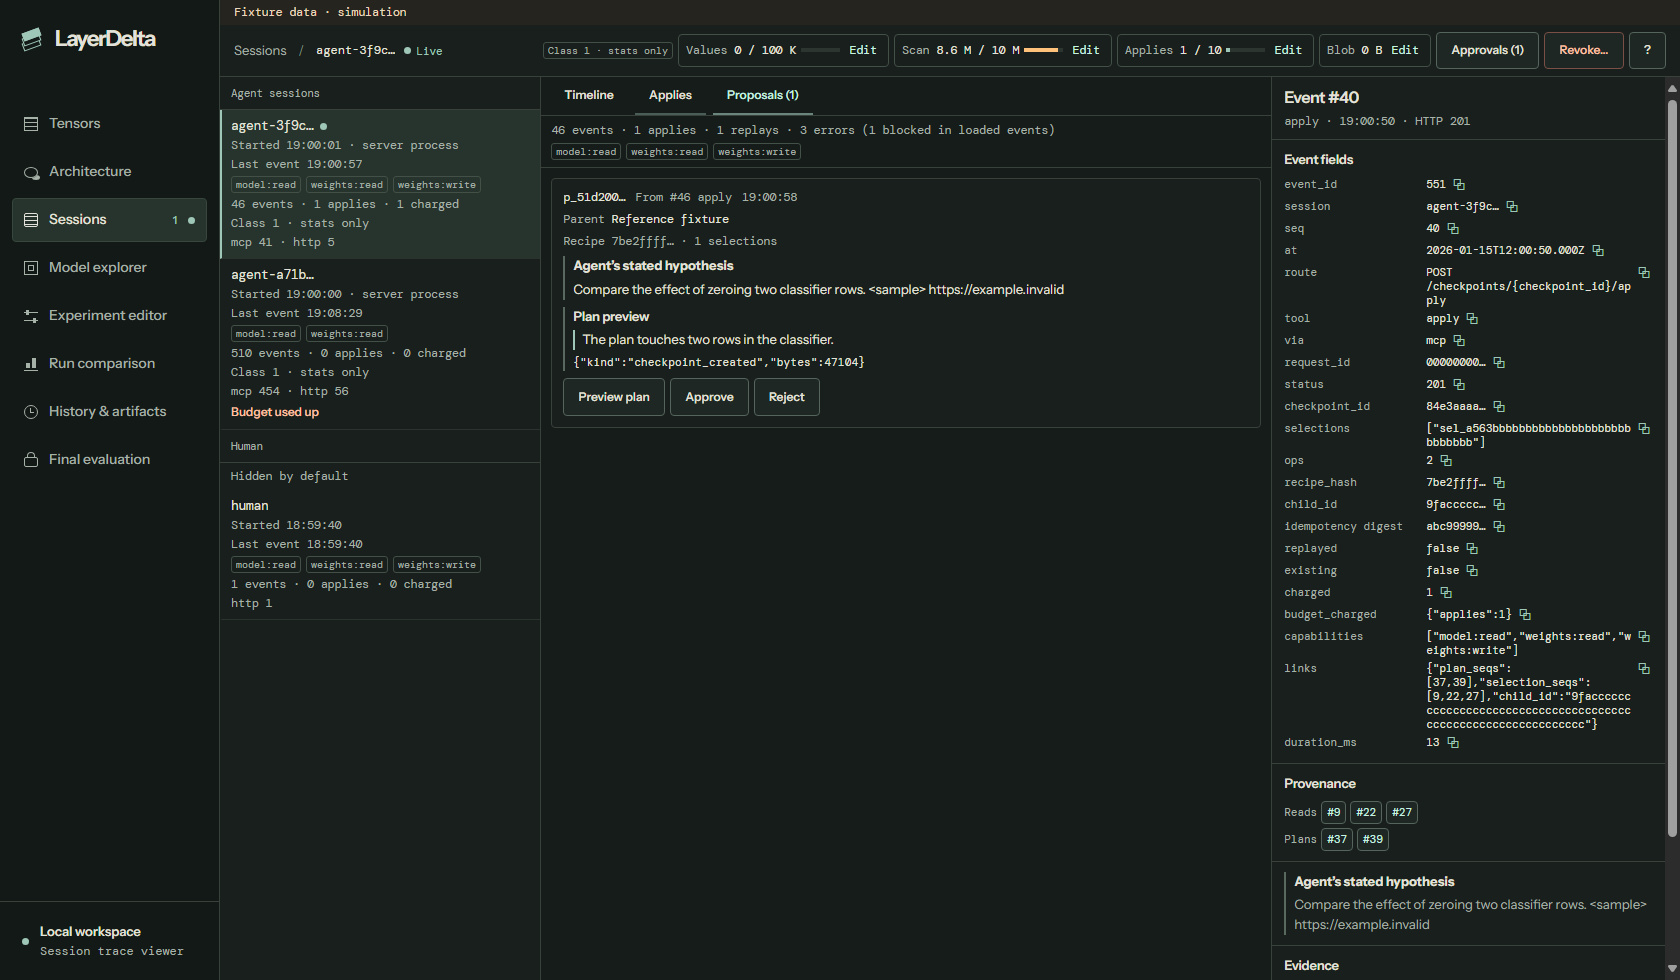
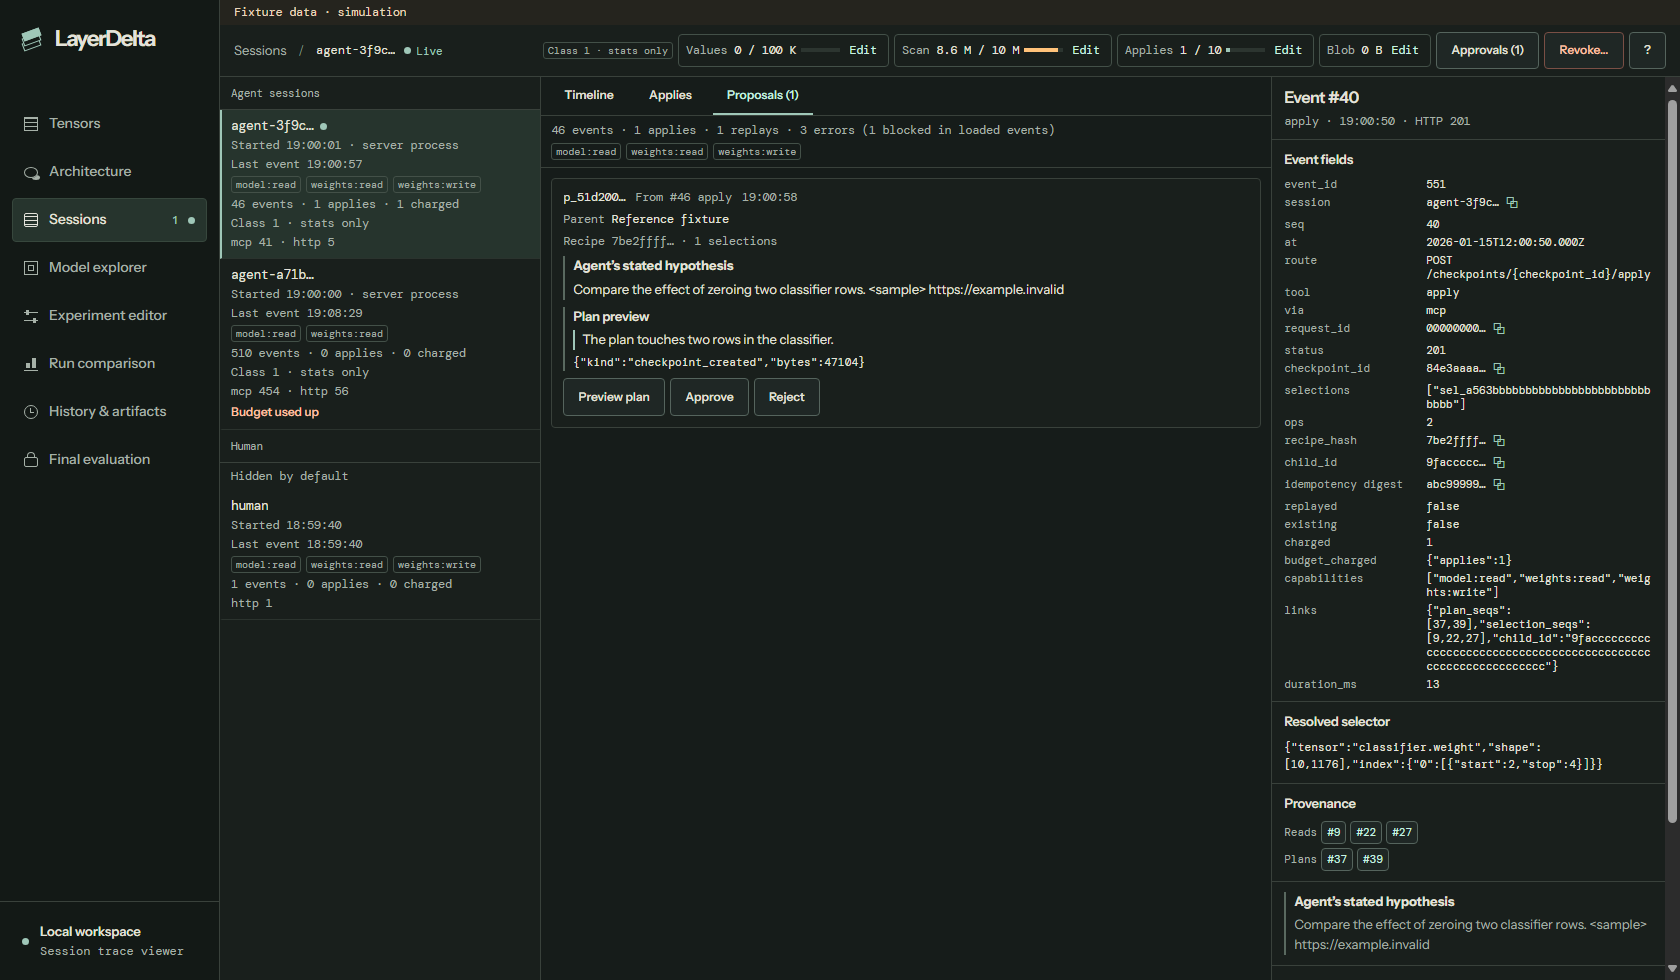
Improve trace timeline readability and hidden startup

diff --git a/desktop/src/SessionTraceViewer.tsx b/desktop/src/SessionTraceViewer.tsx
@@ -126,7 +126,6 @@ function SessionBody({source, session, actions, following, setFollowing, now, re
   const [lower, setLower] = useState(false);
   const [controlError, setControlError] = useState("");
   const [controlBusy, setControlBusy] = useState(false);
-  const help = useRef<HTMLDialogElement>(null);
   const sessionId = session.session;
   const events = feed.events;
   const summary = feed.summary;
@@ -248,7 +247,7 @@ function SessionBody({source, session, actions, following, setFollowing, now, re
           source.controls && session.kind === "agent" && <button type="button" className="tv-revoke" onClick={() => {
             setConfirm({kind: "revoke"}); setControlError("");
           }}>Revoke…</button>}
-        <button type="button" aria-label="Session viewer shortcuts" onClick={() => help.current?.showModal()}>?</button>
+        <TraceHelp/>
       </div>
     </header>
     <section className="tv-center" aria-label="Session events">
@@ -272,12 +271,12 @@ function SessionBody({source, session, actions, following, setFollowing, now, re
         decide={source.controls ? (id, decision) => {setConfirm({kind: "proposal", id, decision}); setControlError("");} : undefined}/>}
     </section>
     <TraceInspector key={selected ?? "empty"} event={selectedEvent} session={session} requested={selected} more={feed.more} load={feed.load} {...evidence}/>
-    <dialog className="tv-dialog" ref={help} aria-label="Session viewer shortcuts"><h2>Session viewer shortcuts</h2>
-      <p><kbd>j</kbd> / <kbd>k</kbd> move between events · <kbd>Enter</kbd> inspect</p><p><kbd>[</kbd> / <kbd>]</kbd> previous / next apply · <kbd>e</kbd> next error</p>
-      <p><kbd>l</kbd> live tail · <kbd>/</kbd> filter</p><form method="dialog"><button>Close</button></form></dialog>
     {confirm && <TraceDialog title={confirm.kind === "revoke" ? "Revoke " + shortId(sessionId) + "?" :
       confirm.kind === "budget" ? "Edit " + DimensionTitle(confirm.dimension) + " budget" : (confirm.decision === "approve" ? "Approve" : "Reject") + " proposal?"}
-      cancel={() => {if (!controlBusy) setConfirm(undefined);}}>
+      cancel={() => {if (!controlBusy) setConfirm(undefined);}}
+      action={<button className={confirm.kind === "revoke" ? "tv-revoke" : "primary"} type="button" disabled={controlBusy}
+        onClick={() => void confirmControl()}>{confirm.kind === "revoke" ? "Revoke session" :
+          confirm.kind === "budget" ? lower ? "Confirm lower limit" : "Save limit" : confirm.decision === "approve" ? "Approve proposal" : "Reject proposal"}</button>}>
       {confirm.kind === "revoke" && <p>Future requests from this session will be refused. Children it created stay in the catalog. Revoking this session is permanent.</p>}
       {confirm.kind === "budget" && <>
         <p>{count(confirm.budget.used)} used / {confirm.budget.limit === null ? "unlimited" : count(confirm.budget.limit)} current limit</p>
@@ -287,13 +286,20 @@ function SessionBody({source, session, actions, following, setFollowing, now, re
       </>}
       {confirm.kind === "proposal" && <p>{confirm.decision === "approve" ? "Approve the previewed recipe and allow it to create a child." : "Reject this proposal without applying it."}</p>}
       {controlError && <p role="alert">{controlError}</p>}
-      <button className={confirm.kind === "revoke" ? "tv-revoke" : "primary"} type="button" disabled={controlBusy}
-        onClick={() => void confirmControl()}>{confirm.kind === "revoke" ? "Revoke session" :
-          confirm.kind === "budget" ? lower ? "Confirm lower limit" : "Save limit" : confirm.decision === "approve" ? "Approve proposal" : "Reject proposal"}</button>
     </TraceDialog>}
   </>;
 }
 const DimensionTitle = (dimension: Dimension) => dimensionLabel[dimension].toLowerCase();
+
+function TraceHelp() {
+  const dialog = useRef<HTMLDialogElement>(null);
+  return <>
+    <button type="button" aria-label="Session viewer shortcuts" onClick={() => dialog.current?.showModal()}>?</button>
+    <dialog className="tv-dialog" ref={dialog} aria-label="Session viewer shortcuts"><h2>Session viewer shortcuts</h2>
+      <p><kbd>j</kbd> / <kbd>k</kbd> move between events · <kbd>Enter</kbd> inspect</p><p><kbd>[</kbd> / <kbd>]</kbd> previous / next apply · <kbd>e</kbd> next error</p>
+      <p><kbd>l</kbd> live tail · <kbd>/</kbd> filter</p><form method="dialog"><button>Close</button></form></dialog>
+  </>;
+}
 
 function TraceWorkspace({source, actions, activity, pending}: {source: TraceSource; actions: TraceActions; activity: (milliseconds: number) => void; pending: (value: number) => void}) {
   const [session, setSession] = useState(() => new URLSearchParams(location.search).get("session") ?? "");
@@ -345,6 +351,8 @@ function TraceWorkspace({source, actions, activity, pending}: {source: TraceSour
   function refreshSessions() {if (source.sessions) setCatalogRevision(n => n + 1); else discovery.load();}
   return <main className="trace-viewer" id="work" tabIndex={-1} data-fixture={isFixture}>
     {isFixture && <div className="tv-fixture">Fixture data · simulation</div>}
+    {!session && <header className="tv-context context-bar"><div className="context-title">Sessions</div>
+      <div className="tv-context-meters"><TraceHelp/></div></header>}
     <SessionList rows={rows} active={session} select={id => {if (session !== id) {setSession(id); patchLocation(id);}}}
       discovery={!source.sessions} loadMore={discovery.more ? discovery.load : undefined} now={now}/>
     {error && (!session || catalogError) && <div className="tv-catalog-error"><Failure error={error} retry={refreshSessions} stale={!!rows.length}/></div>}

diff --git a/desktop/src/sessionTraceViewer.css b/desktop/src/sessionTraceViewer.css
@@ -58,7 +58,7 @@
 .tv-filters select {max-width: 160px}
 .tv-filters input:not([type=checkbox]) {flex: 1; min-width: 105px; max-width: 190px}
 .trace-viewer .tv-chip {min-height: 25px; padding: 2px 7px; border-radius: 12px; font: 10.5px var(--meta-face); color: var(--tv-muted)}
-.tv-chip[aria-pressed=true] {border-color: var(--tv-mint); color: var(--tv-ink); background: #26342d}
+.trace-viewer .tv-chip[aria-pressed=true] {border-color: var(--tv-mint); color: var(--tv-ink); background: #26342d}
 .tv-timeline-meta {justify-content: flex-end; padding-block: 4px}
 .tv-timeline-meta span {margin-right: auto; color: var(--tv-mint)}
 .trace-viewer .tv-timeline-meta button {min-height: 25px}
@@ -67,7 +67,7 @@
 .tv-event-scroll[data-stale=true] {opacity: .7}
 .tv-event-list {position: relative}
 .tv-event {
-  height: 31px; display: grid; grid-template-columns: 35px 61px 15px minmax(62px,.75fr) minmax(0,1.65fr) minmax(40px,.7fr) minmax(44px,.7fr);
+  height: 31px; display: grid; grid-template-columns: 35px 61px 15px minmax(62px,.75fr) minmax(0,1.65fr) var(--tv-status-width) minmax(0,.55fr);
   gap: 5px; align-items: center; padding-inline: 7px; border-left: 2px solid transparent; border-bottom: 1px solid #252e29;
   font: 11.5px var(--meta-face); color: #cfd3cb;
 }
@@ -77,7 +77,7 @@
 .tv-event [role=rowheader] {text-align: right; color: var(--tv-muted)}
 .tv-event time {color: var(--tv-muted)}
 .tv-event[data-error=true] {background: #2a1f1c}
-.tv-event[data-error=true] .tv-event-status {color: var(--tv-bad)}
+.tv-event[data-error=true] .tv-event-status {color: var(--tv-bad); overflow: visible}
 .tv-event[data-status="429"] {box-shadow: inset -3px 0 var(--tv-write)}
 .tv-event[data-lane=Control] {border-left-color: var(--tv-mint); background: #1d3028}
 .tv-lane {font-size: 14px; color: var(--tv-muted); text-align: center}
@@ -131,7 +131,7 @@
 .tv-skeleton i {height: 26px; background: #202a26; border-bottom: 1px solid var(--tv-line)}
 @media (max-width: 1280px) {
   .trace-viewer {grid-template-columns: minmax(157px, 23fr) minmax(0, 51fr) minmax(215px, 26fr)}
-  .tv-event {grid-template-columns: 31px 58px 13px minmax(48px,.8fr) minmax(0,1.35fr) minmax(29px,.6fr) minmax(40px,.45fr); font-size: 10.5px}
+  .tv-event {grid-template-columns: 31px 58px 13px minmax(48px,.8fr) minmax(0,1.35fr) var(--tv-status-width) minmax(0,.4fr); font-size: 10.5px}
 }
 @media (max-width: 900px) {
   .trace-viewer {height: auto; min-height: 100dvh; grid-template: auto auto auto minmax(460px,auto) auto / minmax(0,1fr)}
@@ -142,5 +142,5 @@
   .tv-context {padding-inline: 8px}
 }
 @media (max-width: 460px) {
-  .tv-event {grid-template-columns: 29px 52px 10px minmax(43px,.8fr) minmax(0,1.1fr) minmax(29px,.55fr) minmax(31px,.4fr); padding-inline: 4px; gap: 3px}
+  .tv-event {grid-template-columns: 29px 52px 10px minmax(43px,.8fr) minmax(0,1.1fr) var(--tv-status-width) minmax(0,.35fr); padding-inline: 4px; gap: 3px}
 }

diff --git a/desktop/src/traceModel.ts b/desktop/src/traceModel.ts
@@ -1,3 +1,4 @@
+import type {Index} from "./tensorSource";
 import type {ResolvedSelection, SessionRow, TraceEvent} from "./traceSource";
 
 export type Lane = "Read" | "Plan" | "Write" | "Run" | "Meta" | "Control";
@@ -37,11 +38,45 @@ export function shortId(id: string) {
   return id.slice(0, 8) + "…";
 }
 
+function compactRange(start: number, stop: number) {
+  return stop - start === 1 ? String(start) : start + "–" + (stop - 1);
+}
+function axisText(index: Index | undefined) {
+  if (!index) return ":";
+  if (!Array.isArray(index)) return index.start + ":" + index.stop;
+  if (index.length === 1) {
+    const part = index[0];
+    return typeof part === "number" ? String(part) : part.start + ":" + part.stop;
+  }
+  const pieces: string[] = [];
+  let start: number | undefined;
+  let end: number | undefined;
+  for (const part of index) {
+    const next = typeof part === "number" ? part : part.start;
+    if (end !== undefined && next !== end) {
+      pieces.push(compactRange(start!, end));
+      start = undefined;
+    }
+    start ??= next;
+    end = typeof part === "number" ? part + 1 : part.stop;
+  }
+  if (end !== undefined) pieces.push(compactRange(start!, end));
+  return "[" + pieces.join(", ") + "]";
+}
+export function tensorTarget(selector: Extract<ResolvedSelection["selector"], {tensor: string}>) {
+  const {tensor, index = {}, shape} = selector;
+  const axes = Object.keys(index);
+  if (!shape && !axes.length) return tensor;
+  const rank = shape?.length ?? Math.max(...axes.map(Number)) + 1;
+  const parts = Array.from({length: rank}, (_, axis) => axisText(index[axis]));
+  if (!shape) parts.push("…");
+  return tensor + " [" + parts.join(", ") + "]";
+}
+
 export function eventTarget(event: TraceEvent, names: Map<string, string>, resolved: Map<string, ResolvedSelection>) {
   const name = (id: string) => names.get(id) ?? shortId(id);
   const selection = event.checkpoint_id && event.selection_id ? resolved.get(selectionKey(event.checkpoint_id, event.selection_id))?.selector : undefined;
-  const detail = selection ? "tensor" in selection ? selection.tensor + (selection.index && Object.keys(selection.index).length ?
-    " " + Object.entries(selection.index).map(([axis, index]) => "axis " + axis + " " + JSON.stringify(index)).join(", ") : "") :
+  const detail = selection ? "tensor" in selection ? tensorTarget(selection) :
     shortId(selection.group) : event.selection_id ? shortId(event.selection_id) : "";
   return [event.checkpoint_id && name(event.checkpoint_id), detail,
     event.other_checkpoint_id && "→ " + name(event.other_checkpoint_id)].filter(Boolean).join(" · ") || "—";

diff --git a/desktop/src/TraceInspector.tsx b/desktop/src/TraceInspector.tsx
@@ -58,9 +58,10 @@ export function TraceInspector({event, session, requested, more, load, ...eviden
           const field = event[key];
           const value = typeof field === "string" ? field : JSON.stringify(field);
           return <div key={key}><dt>{key === "idempotency_key" ? "idempotency digest" : key}</dt>
-            <dd><code title={value}>{idFields.has(key) ? shortId(value) : value}</code><CopyField label={key} value={value} copied={setCopied}/></dd></div>;
+            <dd><code title={value}>{idFields.has(key) ? shortId(value) : value}</code>{idFields.has(key) && <CopyField label={key} value={value} copied={setCopied}/>}</dd></div>;
         })}
       </dl><span className="visually-hidden" role="status">{copied}</span></section>
+      {selector && <section className="tv-section"><h3>Resolved selector</h3><code>{JSON.stringify(selector)}</code></section>}
       {summary && <section className="tv-section"><h3>What this means</h3><p className="tv-meaning" data-error={failed(event)}>{summary}</p></section>}
       {(event.links || event.replay_of !== null) && <section className="tv-section"><h3>Provenance</h3><Links event={event} jump={evidence.jump}/></section>}
       {recipe?.hypothesis && <section className="tv-section"><Hypothesis recipe={recipe}/></section>}
@@ -122,10 +123,10 @@ export function TraceApplies({events, ...evidence}: Evidence & {events: TraceEve
   </div>;
 }
 
-export function TraceDialog({title, cancel, children}: {title: string; cancel: () => void; children: ReactNode}) {
+export function TraceDialog({title, cancel, children, action}: {title: string; cancel: () => void; children: ReactNode; action: ReactNode}) {
   return <dialog className="tv-dialog" aria-label={title} ref={dialog => {
     if (dialog && !dialog.open) {dialog.showModal(); dialog.querySelector<HTMLButtonElement>("[data-cancel]")?.focus();}
   }} onCancel={e => {e.preventDefault(); cancel();}}>
-    <h2>{title}</h2>{children}<button type="button" data-cancel onClick={cancel}>Cancel</button>
+    <h2>{title}</h2>{children}<button type="button" data-cancel onClick={cancel}>Cancel</button>{action}
   </dialog>;
 }

diff --git a/desktop/src/TraceTimeline.tsx b/desktop/src/TraceTimeline.tsx
@@ -50,6 +50,8 @@ export function TraceTimeline({events, selected, session, names, resolved, follo
   const win = useWindow(rows.length, rowHeight);
   const checkpointIds = useMemo(() => [...new Set(events.flatMap(e =>
     [e.checkpoint_id, e.other_checkpoint_id, e.child_id].filter((id): id is string => !!id)))], [events]);
+  const codeWidth = useMemo(() => events.reduce((width, event) =>
+    Math.max(width, String(event.status).length + (event.error_code ? 1 + event.error_code.length : 0)), 6), [events]);
   const budgetRow = rows.findIndex(row => "event" in row && row.event.status === 429);
   const mix = Object.entries(session.via_mix ?? {}).filter(([, n]) => n > 0).length > 1;
   const focused = cursor ?? selectionKey;
@@ -144,7 +146,7 @@ export function TraceTimeline({events, selected, session, names, resolved, follo
       <button type="button" aria-pressed={following} onClick={() => {if (!following) tail(); setFollowing(!following);}}>Live tail</button>
       {more && <button type="button" onClick={load}>Load next page</button>}
     </div>
-    <div className="tv-grid-wrap">
+    <div className="tv-grid-wrap" style={{"--tv-status-width": codeWidth + "ch"} as React.CSSProperties}>
       <div className="tv-grid-head tv-event" aria-hidden="true"><span>Seq</span><span>Time</span><span/>
         <span>Tool</span><span>Target</span><span>Status</span><span>Flags</span></div>
       <div className="tv-event-scroll" role="grid" aria-label="Trace timeline" aria-rowcount={rows.length} aria-colcount={7}

diff --git a/desktop/src/traceFixture.ts b/desktop/src/traceFixture.ts
@@ -86,7 +86,7 @@ export function createTraceFixture(clock = Date.now): TraceSource {
     },
     async checkpointName(id) {return names.get(id) ?? null;},
     async resolve(ids) {
-      return ids.flatMap<ResolvedSelection>(id => id.selection_id === selection ? [{...id, selector: {tensor: "classifier.weight", index: {"0": [{start: 2, stop: 4}]}}}] :
+      return ids.flatMap<ResolvedSelection>(id => id.selection_id === selection ? [{...id, selector: {tensor: "classifier.weight", shape: [10, 1176], index: {"0": [{start: 2, stop: 4}]}}}] :
         id.selection_id === groupSelection ? [{...id, selector: {group: "g_e16313d7eb141cdf2d7ad2bc", units: [1]}}] : []);
     },
     async recipe(hash) {

diff --git a/desktop/src/useTraceFeed.ts b/desktop/src/useTraceFeed.ts
@@ -26,7 +26,7 @@ export function useTraceFeed(source: TraceSource, session: string | undefined, p
     let timer: number | undefined;
     async function read(manual = false) {
       window.clearTimeout(timer);
-      if (signal.aborted || busy || document.hidden || (!manual && !first && !pollingRef.current)) return;
+      if (signal.aborted || busy || (!manual && !first && (document.hidden || !pollingRef.current))) return;
       busy = true;
       try {
         const page = await source.page({session, after, limit: pageSize}, signal);
